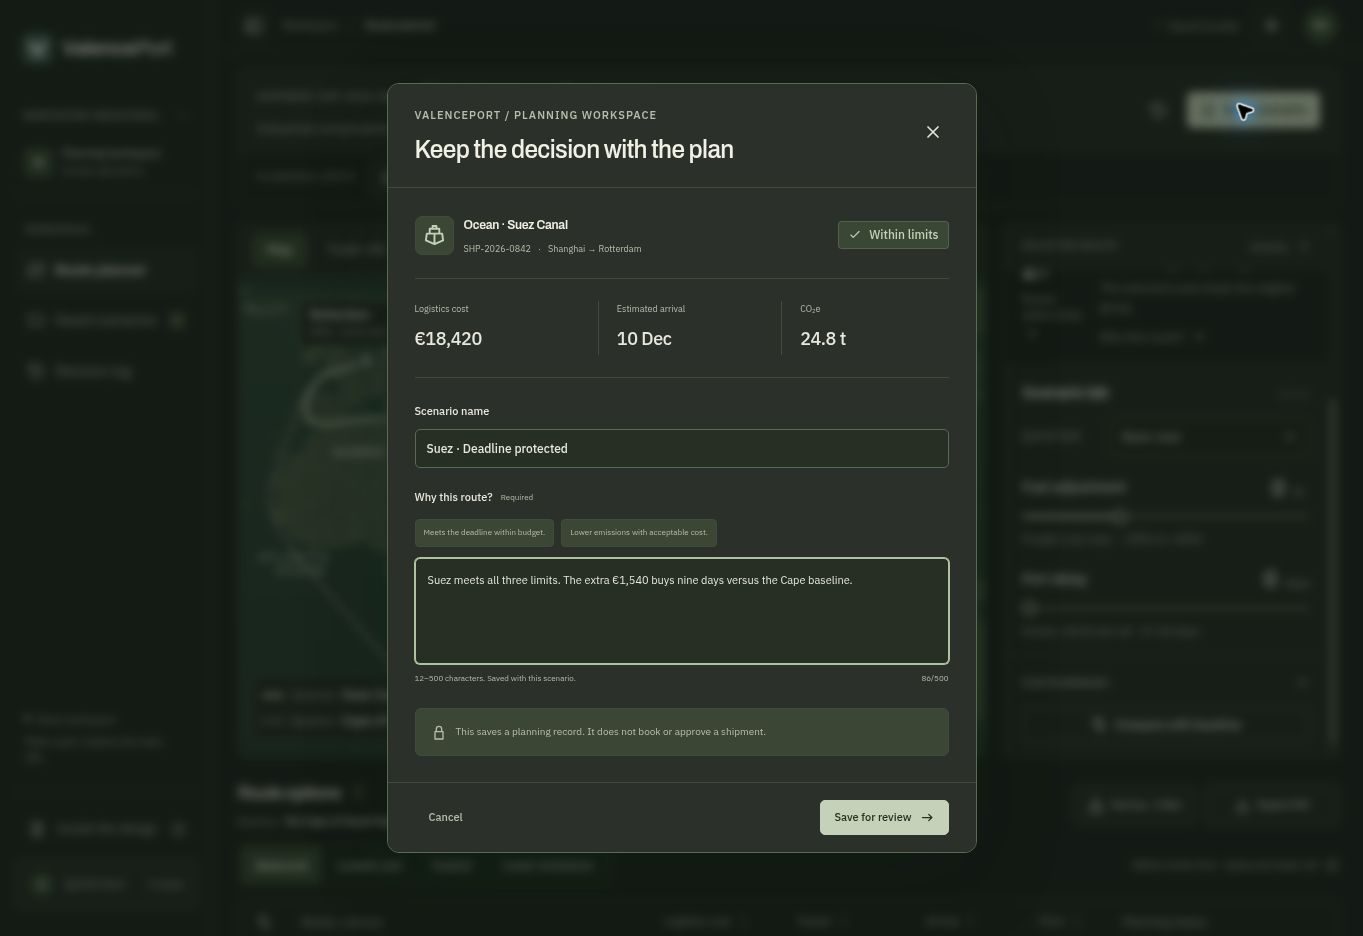
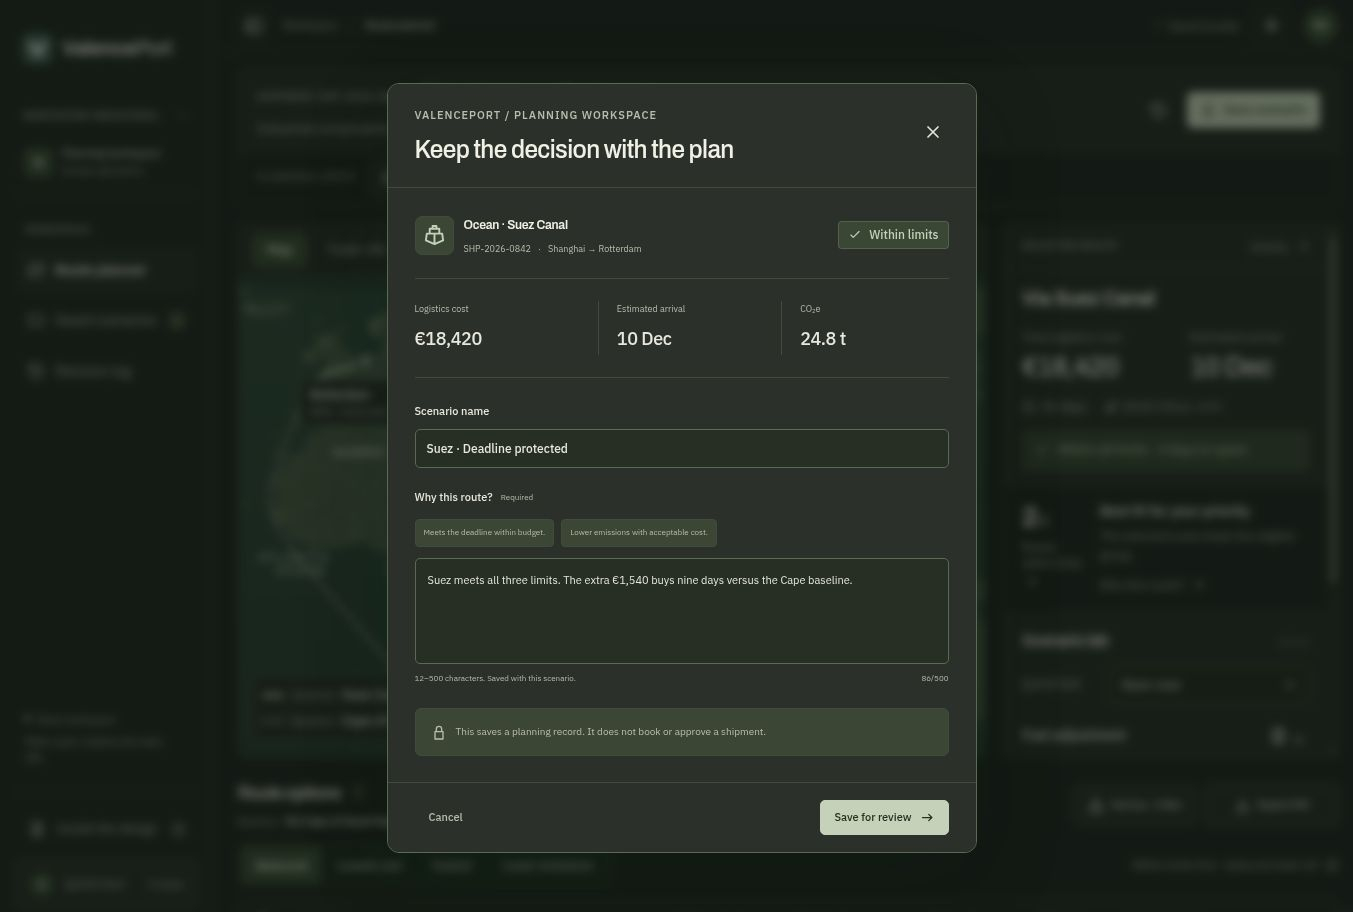
Refresh the README gallery with cursor-free workspace captures (#1)
Recapture all six workspace and case-study views at native scale, without the mouse pointer, glow or text caret. Refresh README image URLs and document framing and capture checks.

Validated with 90 behavior tests, JavaScript syntax checks, full-size image inspection and a separate review of the live case study.

diff --git a/README.md b/README.md
@@ -40,36 +40,36 @@ Six views from the working prototype, in light and dark themes. Select any scree
   <tr>
     <td width="50%" valign="top">
       <strong>01 · Route planning</strong><br><br>
-      <a href="docs/screenshots/01-planner-dark.jpg"><img src="docs/screenshots/01-planner-dark.jpg" alt="Map the selected corridor against its baseline." width="440"></a><br>
+      <a href="docs/screenshots/01-planner-dark.jpg?v=clean-1"><img src="docs/screenshots/01-planner-dark.jpg?v=clean-1" alt="Map the selected corridor against its baseline." width="440"></a><br>
       <sub>Map the selected corridor against its baseline.</sub>
     </td>
     <td width="50%" valign="top">
       <strong>02 · Cost and time</strong><br><br>
-      <a href="docs/screenshots/02-tradeoffs-light.jpg"><img src="docs/screenshots/02-tradeoffs-light.jpg" alt="See the deadline, budget and emissions trade-off." width="440"></a><br>
+      <a href="docs/screenshots/02-tradeoffs-light.jpg?v=clean-1"><img src="docs/screenshots/02-tradeoffs-light.jpg?v=clean-1" alt="See the deadline, budget and emissions trade-off." width="440"></a><br>
       <sub>See the deadline, budget and emissions trade-off.</sub>
     </td>
   </tr>
   <tr>
     <td width="50%" valign="top">
       <strong>03 · Planned journey</strong><br><br>
-      <a href="docs/screenshots/03-journey-dark.jpg"><img src="docs/screenshots/03-journey-dark.jpg" alt="Inspect the stages behind an arrival estimate." width="440"></a><br>
+      <a href="docs/screenshots/03-journey-dark.jpg?v=clean-1"><img src="docs/screenshots/03-journey-dark.jpg?v=clean-1" alt="Inspect the stages behind an arrival estimate." width="440"></a><br>
       <sub>Inspect the stages behind an arrival estimate.</sub>
     </td>
     <td width="50%" valign="top">
       <strong>04 · Compare alternatives</strong><br><br>
-      <a href="docs/screenshots/04-comparison-light.jpg"><img src="docs/screenshots/04-comparison-light.jpg" alt="Read costs, arrival and emissions side by side." width="440"></a><br>
+      <a href="docs/screenshots/04-comparison-light.jpg?v=clean-1"><img src="docs/screenshots/04-comparison-light.jpg?v=clean-1" alt="Read costs, arrival and emissions side by side." width="440"></a><br>
       <sub>Read costs, arrival and emissions side by side.</sub>
     </td>
   </tr>
   <tr>
     <td width="50%" valign="top">
       <strong>05 · Preserve the rationale</strong><br><br>
-      <a href="docs/screenshots/05-rationale-dark.jpg"><img src="docs/screenshots/05-rationale-dark.jpg" alt="Keep the assumptions and reason with the plan." width="440"></a><br>
+      <a href="docs/screenshots/05-rationale-dark.jpg?v=clean-1"><img src="docs/screenshots/05-rationale-dark.jpg?v=clean-1" alt="Keep the assumptions and reason with the plan." width="440"></a><br>
       <sub>Keep the assumptions and reason with the plan.</sub>
     </td>
     <td width="50%" valign="top">
       <strong>06 · Inside the design</strong><br><br>
-      <a href="docs/screenshots/06-case-study-light.jpg"><img src="docs/screenshots/06-case-study-light.jpg" alt="Explore the product decisions in an interactive case study." width="440"></a><br>
+      <a href="docs/screenshots/06-case-study-light.jpg?v=clean-1"><img src="docs/screenshots/06-case-study-light.jpg?v=clean-1" alt="Explore the product decisions in an interactive case study." width="440"></a><br>
       <sub>Explore the product decisions in an interactive case study.</sub>
     </td>
   </tr>

diff --git a/docs/screenshots/README.md b/docs/screenshots/README.md
@@ -1,0 +1,9 @@
+# Workspace captures
+
+These six images show the running ValencePort prototype with illustrative shipment data. The gallery uses the base assumptions: Suez selected, Cape pinned, a €22,000 budget, 14 December deadline and 40 t emissions limit.
+
+Capture at the native desktop scale after fonts, layout transitions and the route reveal have finished. Keep the pointer and its highlight outside the exported frame, and blur text fields so their caret is absent. Check each final image at full size before reviewing the README gallery.
+
+The workspace and case-study frames are 1353 × 912 px. The comparison uses a 1323 × 912 px frame that retains the complete dialog and footer. No interface region is redrawn or enlarged.
+
+The case study itself renders its map and examples with HTML and SVG. It does not embed these screenshots or a screen-recorded video.
